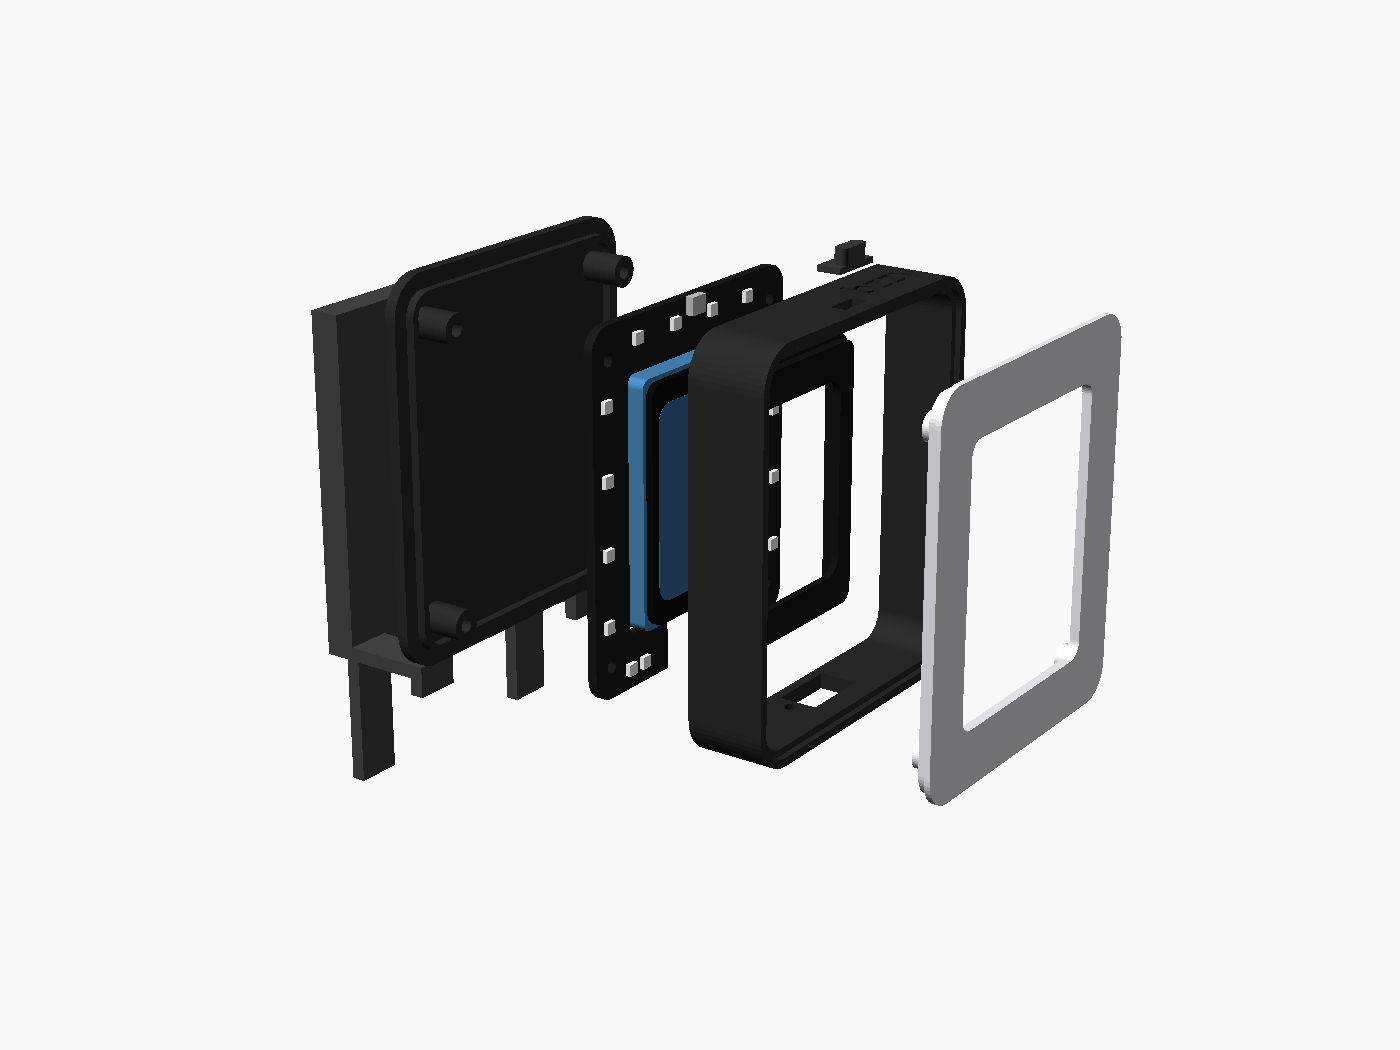
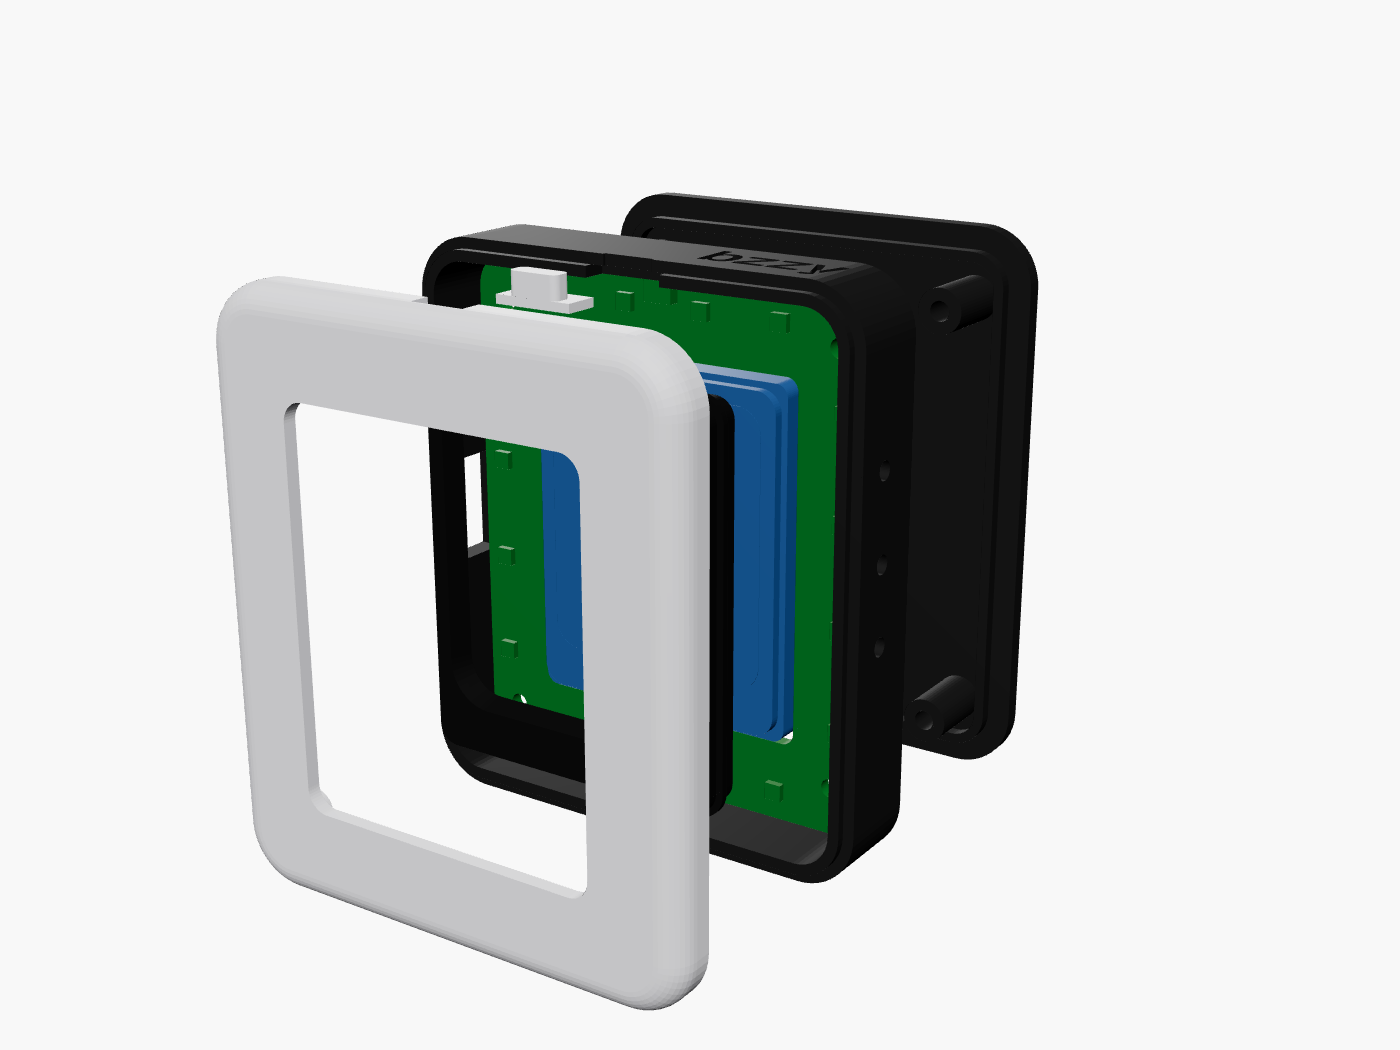
Lander and README: new product shots of the wraparound case
Runway renders made from the CAD: the light on its desk stand (hero),
the lit front, the top with the frosted button and wordmark, and the
glow seen from behind. The exploded view is the current CAD render.
Copy drops the monitor clip (on hold) and the flat border, and the
README gets a 2026-11-22 build-log entry.

Claude-Session: https://claude.ai/code/session_01Logv2B9mSLabzmp7PMojmM

diff --git a/app/src/components/landing.tsx b/app/src/components/landing.tsx
@@ -1,9 +1,9 @@
 import Image from "next/image";
 
-import caseBack from "@/assets/case-back.png";
 import caseExploded from "@/assets/case-exploded.png";
-import caseFront from "@/assets/case-front.png";
-import caseTop from "@/assets/case-top.png";
+import caseFront from "@/assets/case-front.jpg";
+import caseGlow from "@/assets/case-glow.jpg";
+import caseTop from "@/assets/case-top.jpg";
 import heroRender from "@/assets/hero.jpg";
 
 import { defaultPreviewSrcs } from "@/lib/gifs";
@@ -54,7 +54,7 @@ const STATUS_ROWS: { status: Status; name: string; use: string }[] = [
 const SPECS: { term: string; detail: string }[] = [
   { term: "Screen", detail: "1.69 in colour touch, 240 × 280" },
   { term: "Board", detail: "bzzy main board, ESP32-S3" },
-  { term: "Light", detail: "16 RGB LEDs, frosted border" },
+  { term: "Light", detail: "16 RGB LEDs, frosted front that wraps round the edges" },
   { term: "Wi-Fi", detail: "2.4 GHz, guest networks fine" },
   { term: "Power", detail: "USB-C" },
 ];
@@ -76,9 +76,9 @@ const CALENDARS: { name: string; how: string; detail: string }[] = [
 ];
 
 const VIEWS = [
-  { img: caseFront, alt: "The bzzy case from the front: a black frame with a white light border round the screen", title: "The case", line: "Black, with a frosted border" },
-  { img: caseTop, alt: "The top of the case, with the button and the bzzy wordmark", title: "The button", line: "One press changes your status" },
-  { img: caseBack, alt: "The back of the case, with the clip that holds it on a monitor", title: "The clip", line: "Hooks over a monitor's top edge" },
+  { img: caseFront, alt: "The bzzy case from the front, its frosted front glowing green round the screen and curving back onto the sides", title: "The case", line: "A frosted front that wraps round the edges" },
+  { img: caseTop, alt: "The top of the case: a frosted button in the frosted band, and the bzzy wordmark on the black body", title: "The button", line: "One press changes your status" },
+  { img: caseGlow, alt: "The light from behind on its desk stand, a thin red glow round its edges and on the desk", title: "From your chair", line: "The edges glow, so you see your status too" },
 ];
 
 const NAV = [
@@ -146,7 +146,7 @@ export function Landing({ batch }: { batch: ShopBatch }) {
             <div className="lp-c1-6">
               {/* A non-breaking hyphen, so "heads-down" never splits across lines. */}
               <h1 id="hero-h">Desk status light for heads‑down work</h1>
-              <p className="lead">It clips to your monitor and shows your status in light.</p>
+              <p className="lead">It sits on your desk, faces the room and shows your status in light.</p>
               <div className="lp-hero__actions flex flex-wrap items-center gap-3">
                 <a className={buttonClass("primary", "md", "h-12 px-5 text-[15px]")} href="#buy">
                   {BUY_ACTION}
@@ -166,13 +166,13 @@ export function Landing({ batch }: { batch: ShopBatch }) {
         {/* The light in use, close and large (it starts above the fold), then its four statuses as rows. */}
         <section id="light" aria-labelledby="light-h">
           <div className="lp-wrap">
-            {/* A render made from the real case CAD; a photo of the first built bzzy can replace it. */}
+            {/* A render made from the real case CAD (wraparound front, desk stand); a photo of the first built bzzy can replace it. */}
             <div className="lp-showcase">
               <Image
                 src={heroRender}
                 sizes="(min-width: 1440px) 1312px, 100vw"
                 priority
-                alt="A bzzy light clipped to the top of a monitor, its frosted ring glowing red and its screen reading Busy"
+                alt="A bzzy light on its desk stand, its frosted front glowing red and its screen reading Busy"
               />
             </div>
             <div className="lp-grid mt-30">
@@ -419,7 +419,7 @@ export function Landing({ batch }: { batch: ShopBatch }) {
                   <Image
                     src={caseExploded}
                     sizes="(min-width: 1024px) 640px, 100vw"
-                    alt="The case taken apart: back plate and clip, the Waveshare board, the LED ring board, the black frame and the white light border"
+                    alt="The case taken apart: back plate, the Waveshare board, the LED ring board, the black body and the frosted front"
                   />
                 </div>
               </div>
@@ -442,7 +442,7 @@ export function Landing({ batch }: { batch: ShopBatch }) {
                 </li>
                 <li>
                   <h3>Print the case and flash it</h3>
-                  <p className="mt-3 text-muted">Print the case in black and the border in white, then flash the firmware over USB.</p>
+                  <p className="mt-3 text-muted">Print the body in black and the front in frosted resin, then flash the firmware over USB.</p>
                   <a className={`mt-5 inline-block ${LINK}`} href={FIRMWARE}>
                     See the firmware
                   </a>

diff --git a/app/src/components/landing.css b/app/src/components/landing.css
@@ -108,7 +108,7 @@
   width: 100%;
   height: 100%;
   object-fit: cover;
-  object-position: 70% 45%;
+  object-position: 45% 55%;
 }
 @media (max-width: 40rem) {
   .lp-showcase { aspect-ratio: 4 / 3; }

diff --git a/README.md b/README.md
@@ -17,7 +17,7 @@
 
 # bzzy
 
-A homebrew desk busy light: a small screen that shows GIFs, a ring of light around it, and a status (Free, Busy, Do not disturb, Away) set from your phone, your calendar, or the button on top of the device. It clips to a monitor and is powered over USB-C.
+A homebrew desk busy light: a small screen that shows GIFs, a ring of light around it, and a status (Free, Busy, Do not disturb, Away) set from your phone, your calendar, or the button on top of the device. It sits on a desk facing the room, and its frosted front wraps round the edges so you can see your status from behind it too. It's powered over USB-C.
 
 The companion app runs at **[bzzy.ca](https://bzzy.ca)**.
 
@@ -64,7 +64,7 @@ Done:
 1. Breadboard prototype firmware
 2. Companion app with sign-in, teams, status, device API, GIFs, show now and the live preview
 3. Calendar sync from an ICS link
-4. DIY build designed: a custom LED ring board (rev D, drawn from a measured Waveshare board) for the Waveshare board, and a black case with a frosted light border, button cap and bzzy wordmark ([hardware/](hardware/README.md)). Five assembled ring boards ordered from JLCPCB on 2026-11-21; not tested yet
+4. DIY build designed: a custom LED ring board (rev D, drawn from a measured Waveshare board) for the Waveshare board, and a black case with a frosted front that wraps round the edges, a frosted button and the bzzy wordmark, plus a rounded desk stand ([hardware/](hardware/README.md)). Five assembled ring boards ordered from JLCPCB on 2026-11-21; not tested yet
 5. Signed firmware updates over Wi-Fi from GitHub Releases ([docs/ota.md](docs/ota.md))
 6. Setup on the light's own screen: QR codes for Wi-Fi, then pairing with the app
 
@@ -86,7 +86,7 @@ Next (the full list is in [docs/plan.md](docs/plan.md)):
 
 - **Pre-built lights.** Sell assembled and tested bzzys in small batches, built on the main board. The landing page already says they're coming. The ordering spec is in draft PR #81.
 - **DIY side stream.** Keep the Waveshare + ring board + printed case build working for people building their own: test the rev D ring boards (ordered 2026-11-21), which are drawn from a measured Waveshare board and have the rev C review fixes ([hardware/](hardware/README.md)).
-- **Landing page photos.** The signed-out home page (`app/src/components/landing.tsx`) uses a concept picture and illustrations. Swap them for photos of a real bzzy once one is built.
+- **Landing page photos.** The signed-out home page (`app/src/components/landing.tsx`) uses renders made from the case CAD. Swap them for photos of a real bzzy once one is built.
 
 ## Build log
 
@@ -136,9 +136,25 @@ Running the parts list through JLCPCB's BOM tool caught a few things: it wanted 
 
 Next: when the screens arrive, fold a real ribbon behind the glass to see where the connector goes, pick the connector and supercap, and lay out the board.
 
+### 2026-11-22: a light you can see from behind
+
+<p align="center">
+  <a href="docs/images/wraparound-2026-11-22.jpg"><img src="docs/images/wraparound-2026-11-22.jpg" alt="A render of the new case on its desk stand: the frosted front glows red round the screen, which reads Busy, and curves back onto the sides" width="640"></a>
+</p>
+
+A bzzy faces the room, so the person it belongs to sits behind it and can't see their own status. Some product mock-ups made with Runway showed the frosted border rounding over onto the sides, and that turned out to be the fix: if the light wraps round the edges, you can see it from your chair.
+
+So the case changed. The flat frosted plate is now a frosted **front cap**: the whole front face, a rounded edge, and a 5 mm band down all four sides, solid over the LEDs so it carries their light round the corner. The black frame became the body behind it. The size didn't change, and the button is frosted now too, so it doesn't look like a dark gap in the glow. The bzzy wordmark moved back onto the black. The desk stand got rounder at the same time.
+
+<p align="center">
+  <a href="docs/images/wraparound-behind-2026-11-22.jpg"><img src="docs/images/wraparound-behind-2026-11-22.jpg" alt="A render from behind: the back of the light on its stand, with a thin red glow round its edges and on the desk" width="480"></a>
+</p>
+
+Checking how it all holds together turned up an old bug: the M2×8 screws never reached the board. They're M2×12 now, into brass inserts glued into the front cap, since resin won't take self-tapping screws. Both pictures are renders made from the CAD, not photos. The real test comes in December, when the first ring boards arrive and light up a printed case.
+
 ## Hardware
 
-The product is the **bzzy main board** (in design): one custom board with an ESP32-S3-WROOM-1U module, the 1.69" touch screen and 16 LEDs, in a printed black case with a frosted border that glows in the status colour. See [docs/hardware/main-board.md](docs/hardware/main-board.md) and [hardware/](hardware/README.md).
+The product is the **bzzy main board** (in design): one custom board with an ESP32-S3-WROOM-1U module, the 1.69" touch screen and 16 LEDs, in a printed black case with a frosted front that glows in the status colour and wraps round the edges. See [docs/hardware/main-board.md](docs/hardware/main-board.md) and [hardware/](hardware/README.md).
 
 Until it exists, the **Waveshare ESP32-S3-Touch-LCD-1.69** is the development board. It has the same chip, memory and pins, but no radio certification, so it's for building your own, not for selling. The non-touch board and a plain ESP32 still build, for testing. The parts below are for a breadboard build on the Waveshare board.
 

diff --git a/hardware/README.md b/hardware/README.md
@@ -12,7 +12,7 @@ The DIY build is a frame of light around the screen. It has four parts:
 1. The **Waveshare ESP32-S3-Touch-LCD-1.69**, the brains and the screen. It's unchanged from the prototype.
 2. A custom **LED ring board** with 16 small RGB LEDs. It sits around the Waveshare board.
 3. A printed **frosted white front**, round the screen and wrapping round the edges onto the sides. The LEDs light it in the status colour.
-4. A printed **black case** round all of it, with a button on top, the bzzy wordmark, and a monitor clip.
+4. A printed **black case** round all of it, with a button on top, the bzzy wordmark, and a rail on the back for a stand or other mount.
 
 Nothing changes in the firmware. The ring board uses the same data pin (GPIO17) and LED count (16) that `firmware/src/config.h` already has.
 
